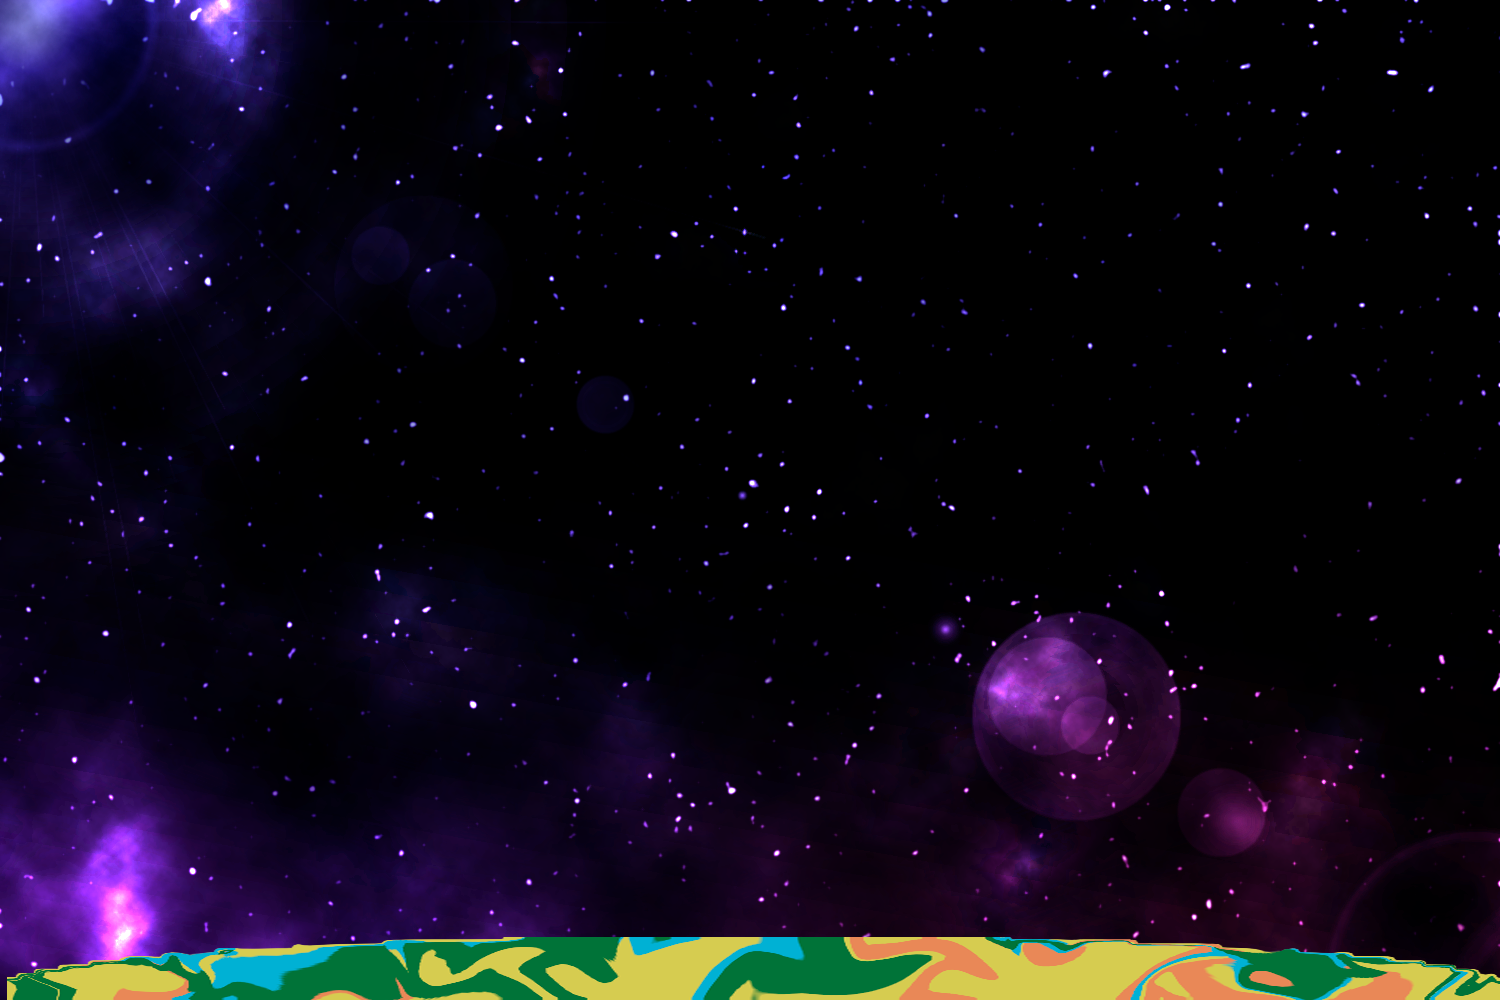
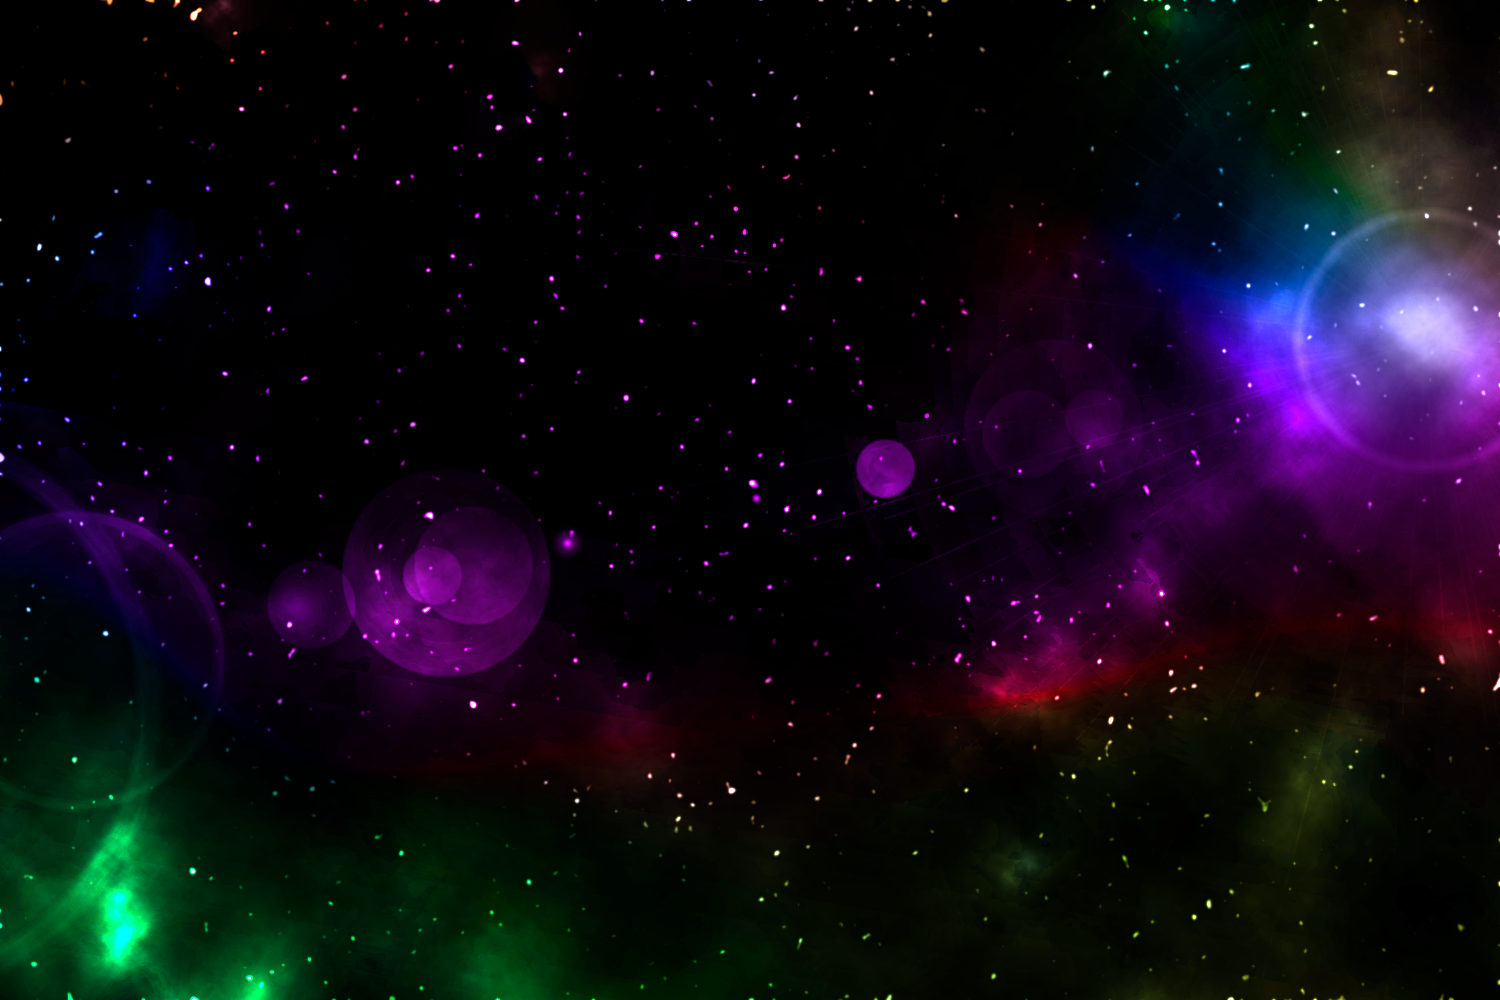
refactoring of the code was done. Backgrounds for the site and canvas were changed. Comments were added.

diff --git a/static/js/game.js b/static/js/game.js
@@ -1,48 +1,4 @@
-class Element extends Image {
-    x0 = 0;
-    y0 = 0;
-    width = 0;
-    height = 0;
-    leftSwitch = true;
-    rightSwitch = false;
-    speed = 3;
-    rightMove = false;
-    leftMove = false;
-
-    constructor(x0, y0, width, height, source) {
-        super();
-        super.src = source;
-        this.x0 = x0;
-        this.y0 = y0;
-        this.width = width;
-        this.height = height;
-    }
-
-}
-
-class Bullet {
-    x0 = 0;
-    y0 = 0;
-    width = 0;
-    height = 0;
-    color = "#FFFFFF";
-    speed = 3;
-
-    constructor(x0, y0, width, height, color, context) {
-        this.color = color;
-        this.x0 = x0;
-        this.y0 = y0;
-        this.width = width;
-        this.height = height;
-        this.context = context;
-    }
-
-    draw() {
-        this.context.fillStyle = this.color;
-        this.context.fillRect(this.x0, this.y0, this.width, this.height);
-    }
-}
-
+//create variables for DOM elements
 const startGame = document.getElementById("btnNewGame");
 const resetGame = document.getElementById("btnReset");
 const canvas = document.getElementById("game");
@@ -53,22 +9,70 @@ const enemyUfo = document.getElementById("enemy-ufo");
 const shieldElement = document.getElementById("shield");
 const addLogo = document.getElementsByClassName("addLogo")[0];
 const startMessage = document.getElementsByClassName("start-message")[0];
-playerScores = document.getElementById("score-value");
-playerLifes = document.getElementById("attempts-value");
+const playerScores = document.getElementById("score-value");
+const playerLifes = document.getElementById("attempts-value");
+//define sizes of canvas
 canvas.width = 1500;
 canvas.height = 1000;
+//create variables for canvas properties
 const canvasWidth = canvas.width;
 const canvasHeight = canvas.height;
+//create instanses of class Element for enemy space ship, user space ship and a shield
 const enemy = new Element(684, 76, 132, 76, enemyUfo.src);
 const user = new Element(684, 833, 132, 76, userUfo.src);
 const shield = new Element(684, 734, 142, 19, shieldElement.src);
-
-let game = false;
+//create variables to control the game, store bullets, scores and lifes
+let gameProcess = false;
 let runningGame;
+let pause;
 let allEnemyBullets = [];
-let scores = 0;
-let lifes = 3;
+let scores;
+let lifes;
 
+//function that runs the game
+let game = () => {
+    if(!gameProcess) {
+        scores = 0;
+        lifes = 3;
+        gameProcess = true;
+        startGame.classList.toggle("btnActive");
+        resetGame.classList.toggle("btnActive");
+        addLogo.classList.toggle("opened");
+        startMessage.classList.toggle("opened");
+        startSettings();
+        runningGame = setInterval(() => {
+            if (!pause) {
+                updateHorizontalPosition(enemy);
+                updateUserPosition(user);
+                updateUserPosition(shield);
+                updateBulletPosition();
+                drawElements();
+                displayStatistic();
+            }
+        }, 10);
+    } 
+}
+//function that stops the game
+let stopGame = () => {
+    if (gameProcess) {
+        clearInterval(runningGame);
+        startGame.classList.toggle("btnActive");
+        resetGame.classList.toggle("btnActive");
+        addLogo.classList.toggle("opened");
+        startMessage.classList.toggle("opened");
+        gameProcess = false;
+        clearCanvas();
+    }
+}
+//listens click events on startGame button and runs function game()
+startGame.onclick = () => {
+    game();
+}
+//listens click events on resetGame button and runs function stopGame()
+resetGame.onclick = () => {
+    stopGame();
+}
+//function contains all start settings and variable values
 const startSettings = () => {
     enemy.x0 = 684;
     enemy.y0 = 76;
@@ -76,13 +80,17 @@ const startSettings = () => {
     user.y0 = 833;
     shield.x0 = 684;
     shield.y0 = 734;
+    pause = false;
+    removeAllBullets();
+    drawElements();
+    setTimeout(addEnemyBullet, 3000 );
 }
-
+//function displays game statistic on the page
 let displayStatistic = () => {
     playerScores.textContent = scores;
     playerLifes.textContent = lifes;
 }
-
+//function creates enemy bullet instanses, add them into the bullet array and draw them in the canvas
 const addEnemyBullet = () => {
     if (allEnemyBullets.length < 2) {
         let bullet = new Bullet(enemy.x0 + enemy.width / 2, enemy.y0 + enemy.height / 2, 10, 15, "#D40B27", ctx);
@@ -90,7 +98,11 @@ const addEnemyBullet = () => {
         allEnemyBullets.push(bullet); 
     }
 }
-
+//function removes all bullets from the screen
+const removeAllBullets = () => {
+    allEnemyBullets.splice(0, allEnemyBullets.length);
+}
+//function draws all game elements on the screen
 const drawElements = () => {
     clearCanvas();
     ctx.drawImage(backgroundImage, 0, 0, canvasWidth, canvasHeight);
@@ -101,11 +113,11 @@ const drawElements = () => {
         allEnemyBullets[i].draw();
     }
 }
-
+//completely clears the canvas 
 const clearCanvas = () => {
     ctx.clearRect(0, 0, canvasWidth, canvasHeight);
 }
-
+//function receives an element as an argument and updates its horisontal position 
 const updateHorizontalPosition = (element) => {
     if (element.leftSwitch) {
         if ((element.x0 + element.width) < canvasWidth) {
@@ -123,7 +135,7 @@ const updateHorizontalPosition = (element) => {
         }
     }
 }
-
+//function updates enemy bullets positions
 const updateBulletPosition = () => {
     for (let i = 0; i < allEnemyBullets.length; i++) {
         if ((allEnemyBullets[i].y0 + allEnemyBullets[i].height) <= canvas.height) {
@@ -144,10 +156,12 @@ const updateBulletPosition = () => {
             allEnemyBullets[i].x0 = enemy.x0 + enemy.width / 2;
             allEnemyBullets[i].y0 = enemy.y0 + enemy.height / 2;
             lifes -= 1;
+            pause = true;
+            setTimeout(startSettings, 2000);
         }
     }
 }
-
+//function receives an element (user ship or shield) as an argument and updates its position 
 const updateUserPosition = (element) => {
     if ((element.rightMove) & ((element.x0 + element.width) < canvasWidth)) {
         element.x0 += element.speed;
@@ -156,7 +170,8 @@ const updateUserPosition = (element) => {
         element.x0 -= element.speed;
     }
 }
-
+//function checks collisions between two elements
+// and returns true (if there is a collision) or false (if there is not any collision)
 const collideEvent = (firstElement, secondElement) => {
     if (firstElement.x0 > (secondElement.x0 + secondElement.width) || secondElement.x0 > (firstElement.x0 + firstElement.width) )
         return false;
@@ -164,7 +179,7 @@ const collideEvent = (firstElement, secondElement) => {
         return false;
     return true;
 }
-
+//listens and handles key down events
 window.addEventListener("keydown", (event) => {
     if (event.key === 'd') {
         user.leftMove = false;
@@ -180,7 +195,7 @@ window.addEventListener("keydown", (event) => {
         shield.leftMove = true;
     }
 });
-
+//listens and handles key up events
 window.addEventListener("keyup", (event) => {
     if (event.key === 'd') {
         user.leftMove = false;
@@ -195,38 +210,5 @@ window.addEventListener("keyup", (event) => {
         shield.rightMove = false;
         shield.leftMove = false;
     }
-}); 
+});
 
-
-startGame.onclick = () => {
-    if (!game) {
-        game = true;
-        startGame.classList.toggle("btnActive");
-        resetGame.classList.toggle("btnActive");
-        addLogo.classList.toggle("opened");
-        startMessage.classList.toggle("opened");
-        startSettings();
-        drawElements();
-        addEnemyBullet();
-        runningGame = setInterval(() => {
-            updateHorizontalPosition(enemy);
-            updateUserPosition(user);
-            updateUserPosition(shield);
-            updateBulletPosition();
-            drawElements();
-            displayStatistic();
-        }, 10);
-    }
-}
-
-resetGame.onclick = () => {
-    if (game) {
-        clearInterval(runningGame);
-        startGame.classList.toggle("btnActive");
-        resetGame.classList.toggle("btnActive");
-        addLogo.classList.toggle("opened");
-        startMessage.classList.toggle("opened");
-        game = false;
-        clearCanvas();
-    }
-}

diff --git a/html_version/game.html b/html_version/game.html
@@ -114,7 +114,7 @@
                     <h3>Press "New game" to start</h3>
                 </div>
                 <canvas id="game">
-                    <img id="background-image" src="../static/images/background.png">
+                    <img id="background-image" src="../static/images/gameBackground.png">
                     <img id="user-ufo" src="../static/images/ufo.png">
                     <img id="enemy-ufo" src="../static/images/enemy.png">
                     <img id="shield" src="../static/images/shield.png">

diff --git a/static/js/bullet.js b/static/js/bullet.js
@@ -1,0 +1,22 @@
+class Bullet {
+    x0 = 0;
+    y0 = 0;
+    width = 0;
+    height = 0;
+    color = "#FFFFFF";
+    speed = 3;
+
+    constructor(x0, y0, width, height, color, context) {
+        this.color = color;
+        this.x0 = x0;
+        this.y0 = y0;
+        this.width = width;
+        this.height = height;
+        this.context = context;
+    }
+
+    draw() {
+        this.context.fillStyle = this.color;
+        this.context.fillRect(this.x0, this.y0, this.width, this.height);
+    }
+}

diff --git a/static/js/element.js b/static/js/element.js
@@ -1,0 +1,21 @@
+class Element extends Image {
+    x0 = 0;
+    y0 = 0;
+    width = 0;
+    height = 0;
+    leftSwitch = true;
+    rightSwitch = false;
+    speed = 3;
+    rightMove = false;
+    leftMove = false;
+
+    constructor(x0, y0, width, height, source) {
+        super();
+        super.src = source;
+        this.x0 = x0;
+        this.y0 = y0;
+        this.width = width;
+        this.height = height;
+    }
+
+}

diff --git a/static/style/style.css b/static/style/style.css
@@ -328,7 +328,8 @@ footer p {
     grid-column: 1/span 2;
     width: 100%;
 	height: 40vw;
-    background-color: #975b5b;
+    background: url(../images/startGameBackground.png) no-repeat center center;
+    background-size: 100% 100%;
 }
 
 .addLogo {

diff --git a/game.php b/game.php
@@ -42,7 +42,7 @@
                 <h3>Press "New game" to start</h3>
             </div>
             <canvas id="game">
-                <img id="background-image" src="static/images/background.png">
+                <img id="background-image" src="static/images/gameBackground.png">
                 <img id="user-ufo" src="static/images/ufo.png">
                 <img id="enemy-ufo" src="static/images/enemy.png">
                 <img id="shield" src="static/images/shield.png">

diff --git a/common.php b/common.php
@@ -157,6 +157,8 @@
         echo '</footer>';
         echo '<script src="static/js/popup-windows.js"></script>';
         if ($pageName == "game") {
+            echo '<script src="static/js/element.js"></script>';
+            echo '<script src="static/js/bullet.js"></script>';
             echo '<script src="static/js/game.js"></script>';
         }
         echo '</body>';
